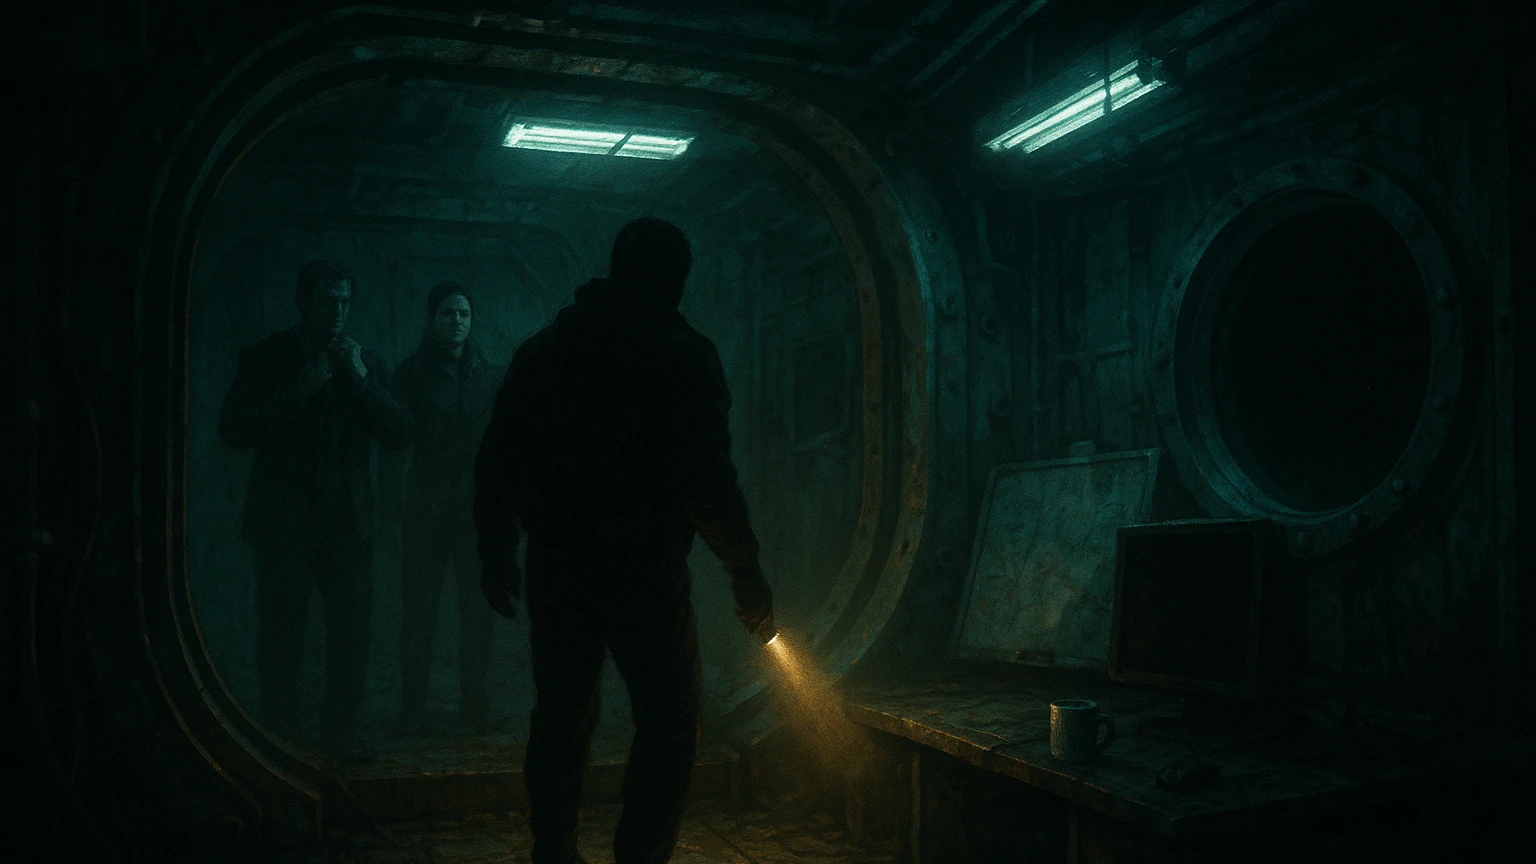
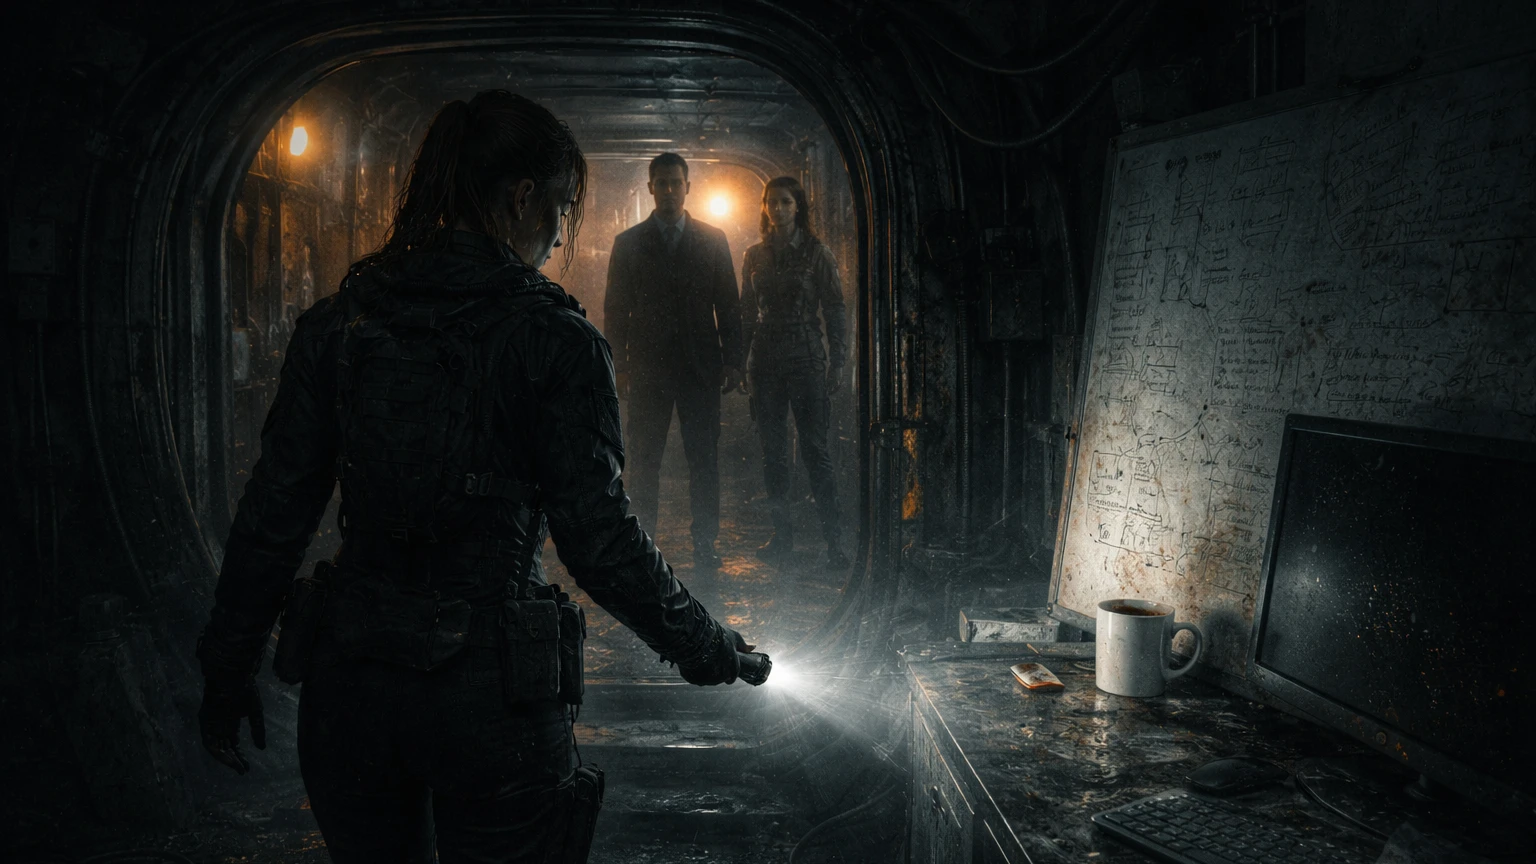
Add image crop script + regenerate story 3 images

diff --git a/games/cyoa/scripts/image-utils/crop_to_16_9.py b/games/cyoa/scripts/image-utils/crop_to_16_9.py
@@ -1,0 +1,123 @@
+# Center-crop helper for generated story images.
+# Requires Pillow: `pip install pillow`
+#
+# Inputs:
+# - input_path: source image file path.
+# - output_path: destination image file path.
+# - target_width: output width in pixels (default: 1536).
+# - target_height: output height in pixels (default: 864).
+# - vertical_crop: used only when the source is too tall for the target ratio.
+#     * top: keep top content, remove extra pixels from the bottom.
+#     * bottom: keep bottom content, remove extra pixels from the top.
+#     * both: remove extra pixels evenly from top and bottom (default).
+#
+# Example:
+#   python3 scripts/image-utils/crop_to_16_9.py input.png output_1536x864.png --vertical-crop both
+
+import argparse
+from PIL import Image
+from pathlib import Path
+from typing import Literal
+
+VerticalCropMode = Literal["top", "bottom", "both"]
+
+
+def _compute_vertical_crop_bounds(
+    source_height: int,
+    cropped_height: int,
+    vertical_crop: VerticalCropMode,
+) -> tuple[int, int]:
+    """Return (top, bottom) bounds for vertical cropping."""
+    if vertical_crop == "top":
+        top = 0
+        bottom = cropped_height
+    elif vertical_crop == "bottom":
+        top = source_height - cropped_height
+        bottom = source_height
+    else:
+        # Default "both": crop evenly from top and bottom.
+        top = (source_height - cropped_height) // 2
+        bottom = top + cropped_height
+
+    return top, bottom
+
+
+def crop_to_16_9(
+    input_path: str | Path,
+    output_path: str | Path,
+    target_width: int = 1536,
+    target_height: int = 864,
+    vertical_crop: VerticalCropMode = "both",
+) -> None:
+    """
+    Crop an image to exact 16:9, then resize to the requested output size.
+
+    Horizontal crops are always centered. Vertical crops can be taken from:
+    - "top": keep top area, remove from bottom
+    - "bottom": keep bottom area, remove from top
+    - "both": remove evenly from top and bottom (default)
+
+    This avoids distortion because it never stretches to fit before cropping.
+    """
+    if vertical_crop not in {"top", "bottom", "both"}:
+        raise ValueError("vertical_crop must be one of: 'top', 'bottom', 'both'")
+
+    input_file = Path(input_path)
+    output_file = Path(output_path)
+
+    image = Image.open(input_file).convert("RGB")
+    source_width, source_height = image.size
+
+    target_aspect_ratio = target_width / target_height
+    source_aspect_ratio = source_width / source_height
+
+    if source_aspect_ratio > target_aspect_ratio:
+        # Source is too wide: crop left/right
+        cropped_width = int(round(source_height * target_aspect_ratio))
+        left = (source_width - cropped_width) // 2
+        right = left + cropped_width
+        top = 0
+        bottom = source_height
+    else:
+        # Source is too tall: crop top/bottom
+        cropped_height = int(round(source_width / target_aspect_ratio))
+        top, bottom = _compute_vertical_crop_bounds(
+            source_height=source_height,
+            cropped_height=cropped_height,
+            vertical_crop=vertical_crop,
+        )
+        left = 0
+        right = source_width
+
+    image = image.crop((left, top, right, bottom))
+
+    if image.size != (target_width, target_height):
+        image = image.resize((target_width, target_height), Image.LANCZOS)
+
+    image.save(output_file, format="PNG")
+
+
+if __name__ == "__main__":
+    parser = argparse.ArgumentParser(
+        description="Crop image to 16:9 and resize without distortion."
+    )
+    parser.add_argument("input_path", nargs="?", default="input.png")
+    parser.add_argument("output_path", nargs="?", default="output_1536x864.png")
+    parser.add_argument("--width", type=int, default=1536)
+    parser.add_argument("--height", type=int, default=864)
+    parser.add_argument(
+        "--vertical-crop",
+        choices=["top", "bottom", "both"],
+        default="both",
+        help="When image is too tall, crop from top, bottom, or both (default).",
+    )
+
+    args = parser.parse_args()
+
+    crop_to_16_9(
+        input_path=args.input_path,
+        output_path=args.output_path,
+        target_width=args.width,
+        target_height=args.height,
+        vertical_crop=args.vertical_crop,
+    )

diff --git a/games/cyoa/story-pipeline/06-metadata-extractor.prompt.md b/games/cyoa/story-pipeline/06-metadata-extractor.prompt.md
@@ -16,16 +16,16 @@ You have seen every chapter, every branch, every ending. You use that omniscient
 
 Produce one object with these fields:
 
-| Field                  | Rules                                                                                                                                                         |
-| ---------------------- | ------------------------------------------------------------------------------------------------------------------------------------------------------------- |
-| `number`               | Use `STORY_NUMBER`.                                                                                                                                           |
-| `title`                | Exact title from the story's `# Title` line.                                                                                                                  |
-| `emoji`                | One emoji that captures the story's dominant setting or mood. Avoid generic choices (no 📖, no ⭐).                                                           |
-| `approxTime`           | Estimate reading time as `"X-Y min"`. Base it on total word count ÷ 200 wpm for the shortest path and ÷ 200 wpm for the longest path. Round to whole minutes. |
-| `keywords`             | The 3 keywords from the story's `## Keywords` section, verbatim.                                                                                              |
-| `chapters`             | Total chapter count (count all `## Chapter N` headings).                                                                                                      |
-| `tone`                 | The story's dominant tone. Must match a `name` value from the tone catalog if one was used during earlier pipeline steps.                                     |
-| `storyPipelineVersion` | Set to `2.2`                                                                                                                                                  |
+| Field                             | Rules                                                                                                                                                         |
+| --------------------------------- | ------------------------------------------------------------------------------------------------------------------------------------------------------------- |
+| `number`                          | Use `STORY_NUMBER`.                                                                                                                                           |
+| `title`                           | Exact title from the story's `# Title` line.                                                                                                                  |
+| `emoji`                           | One emoji that captures the story's dominant setting or mood. Avoid generic choices (no 📖, no ⭐).                                                           |
+| `approxTime`                      | Estimate reading time as `"X-Y min"`. Base it on total word count ÷ 200 wpm for the shortest path and ÷ 200 wpm for the longest path. Round to whole minutes. |
+| `keywords`                        | The 3 keywords from the story's `## Keywords` section, verbatim.                                                                                              |
+| `chapters`                        | Total chapter count (count all `## Chapter N` headings).                                                                                                      |
+| `tone`                            | The story's dominant tone. Must match a `name` value from the tone catalog if one was used during earlier pipeline steps.                                     |
+| `createdWithStoryPipelineVersion` | Set to `2.2`                                                                                                                                                  |
 
 ## Task 2 — Chapter Image Metadata (`metadata-images.json` entry)
 
@@ -37,15 +37,14 @@ Produce one image-prompt object per chapter. Every chapter gets an entry — no 
 2. **Composition**: Each prompt describes a single camera-frameable scene — angle, subject placement, lighting direction, key foreground/background elements.
 3. **Emotional peak**: Choose the most visually dramatic or emotionally resonant moment in the chapter. For choice chapters, depict the moment just **before** the decision — the tension, not the resolution.
 4. **No spoilers for non-ending chapters**: Do not reveal plot information the reader hasn't encountered yet on any path leading to this chapter. Endings may include tonal outcome cues.
-5. **Character depiction**: Describe characters by visible physical details (clothing, posture, expression, lighting on skin) — never by internal states. The protagonist is always seen from a cinematic angle (over-shoulder, low-angle, silhouette) — never a direct portrait. When a supporting character's gender is clearly established in the story, state it explicitly in the prompt.
+5. **Character depiction**: Describe characters by visible physical details (clothing, posture, expression, lighting on skin) — never by internal states or character names. **Never use character names in prompts** — image models cannot map names to consistent appearances, and names can trigger unintended associations. Instead, refer to each character by role and physical descriptors (e.g., "a tall woman in a leather coat", "the elderly shopkeeper", "the young boy").
 
-   **Protagonist gender decision tree (apply in order):**
-
-- **A. Clear and consistent gender cues in story text** (pronouns from other characters, explicit descriptors): infer that gender and use it consistently across **all** chapters.
-- **B. No clear gender cues** (story remains second-person/ungendered): keep protagonist ungendered and use obscuring framing that blocks gendered inference — e.g., back-facing pressure suit, over-shoulder with face turned away, gloved forearm foreground, backlit silhouette.
-- **C. Contradictory cues across chapters**: do not arbitrate. Use the same ungendered obscuring framing as B and flag the contradiction for revision/editorial follow-up.
-
-**Consistency rule:** Do not mix ungendered obscuring shots in one chapter with front-facing gender-readable protagonist shots in another; maintain one depiction strategy story-wide. 6. **Object state fidelity**: When a key object appears in an image prompt, its physical state must exactly match the story. Never depict an object in its intact or canonical form if the story describes it as broken, detached, partial, or transformed. Name the altered state explicitly — e.g. "a ceramic handle detached from its mug", "a cracked seal", "a shredded letter" — so the model cannot default to the complete version of the object. 7. **Ending type**: Set `endingType` to one of: `successful`, `bittersweet`, `bad`, `very_bad`, `tragic`, `dark_success`, `neutral_bad`. Non-ending chapters use `null`. 8. **Suffix**: Every `llmPrompt` must end with: `no text, no watermark.` 9. **Prompt length**: Each `llmPrompt` must be 40–80 words (excluding the `no text, no watermark.` suffix). Overly detailed prompts confuse image models; overly brief prompts lack compositional control.
+   **Gender consistency (mandatory):**
+   - **Protagonist**: Stories use second-person narration ("you") throughout, so the protagonist has no textual gender. Before writing any prompt, **pick one gender** for the protagonist and state it explicitly in every chapter prompt (e.g., "a young woman crouching…", "a broad-shouldered man standing…"). Never leave the protagonist's gender unspecified — image models will infer one inconsistently if you do.
+   - **Supporting characters**: Determine each supporting character's gender from the story text (pronouns, descriptors, narrative cues) and maintain it identically across all chapter prompts.
+   - The same character must keep the same gender, approximate age, and distinguishing physical traits in every prompt where they appear.
+   - Do not rely on obscuring framing (back-facing, silhouette) as a gender strategy — image models still infer and vary gender from body shape, hair, and clothing. Use these only as compositional choices.
+   - The protagonist may be shown from cinematic angles (over-shoulder, low-angle, side profile) but their stated gender must remain explicit in the prompt text regardless of camera angle. 6. **Object state fidelity**: When a key object appears in an image prompt, its physical state must exactly match the story. Never depict an object in its intact or canonical form if the story describes it as broken, detached, partial, or transformed. Name the altered state explicitly — e.g. "a ceramic handle detached from its mug", "a cracked seal", "a shredded letter" — so the model cannot default to the complete version of the object. 7. **Ending type**: Set `endingType` to one of: `successful`, `bittersweet`, `bad`, `very_bad`, `tragic`, `dark_success`, `neutral_bad`. Non-ending chapters use `null`. 8. **Suffix**: Every `llmPrompt` must end with: `no text, no watermark.` 9. **Prompt length**: Each `llmPrompt` must be 50–100 words (excluding the `no text, no watermark.` suffix). Overly detailed prompts confuse image models; overly brief prompts lack compositional control.
 
 ### Prompt Structure
 
